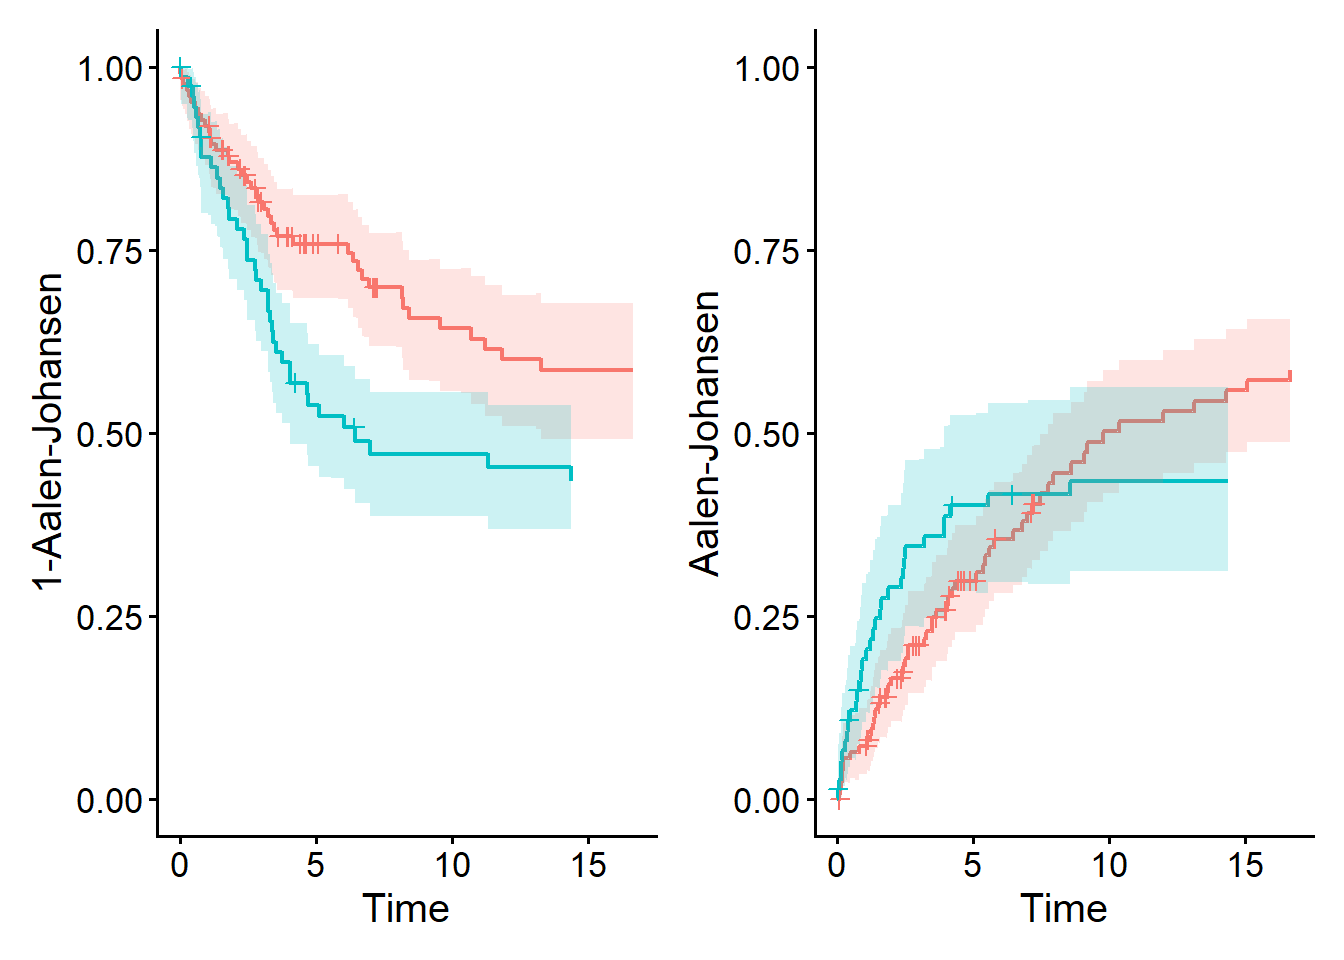
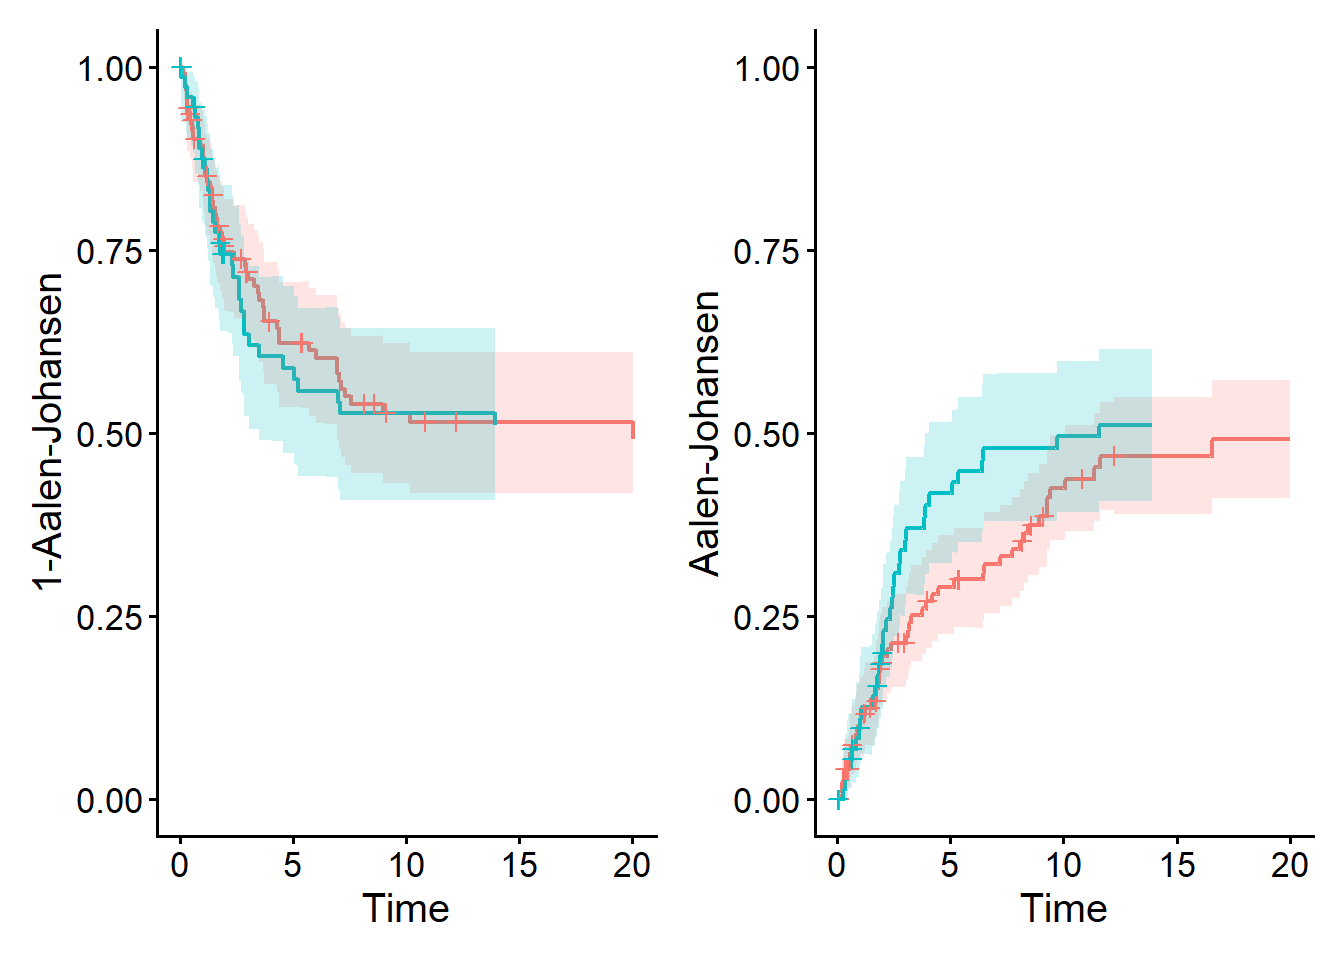
about

diff --git a/docs/jp/frequentist-5.html b/docs/jp/frequentist-5.html
@@ -500,7 +500,7 @@ calculate_coverage()を実行するRコードと結果はこちら
 <span id="cb3-3"><a href="#cb3-3" aria-hidden="true" tabindex="-1"></a>coverage_200 <span class="ot">&lt;-</span> <span class="fu">calculate_coverage</span>(<span class="at">model=</span><span class="st">"coxph"</span>, <span class="at">n=</span><span class="dv">200</span>, <span class="at">hr1=</span><span class="dv">2</span>, <span class="at">hr2=</span><span class="fl">1.5</span>, <span class="at">hr_true=</span><span class="fl">1.5</span>)</span>
 <span id="cb3-4"><a href="#cb3-4" aria-hidden="true" tabindex="-1"></a><span class="fu">print</span>(coverage_200)</span></code><button title="Copy to Clipboard" class="code-copy-button"><i class="bi"></i></button></pre></div>
 <div class="cell-output cell-output-stdout">
-<pre><code>[1] 0.949</code></pre>
+<pre><code>[1] 0.956</code></pre>
 </div>
 </div>
 </div>
@@ -544,19 +544,19 @@ calculate_coverage()を実行するRコードと結果はこちら
 <span id="cb5-3"><a href="#cb5-3" aria-hidden="true" tabindex="-1"></a>coverage_800 <span class="ot">&lt;-</span> <span class="fu">calculate_coverage</span>(<span class="at">model=</span><span class="st">"coxph"</span>, <span class="at">n=</span><span class="dv">800</span>, <span class="at">hr1=</span><span class="dv">2</span>, <span class="at">hr2=</span><span class="fl">1.5</span>, <span class="at">hr_true=</span><span class="fl">1.5</span>)</span>
 <span id="cb5-4"><a href="#cb5-4" aria-hidden="true" tabindex="-1"></a><span class="fu">print</span>(coverage_100)</span></code><button title="Copy to Clipboard" class="code-copy-button"><i class="bi"></i></button></pre></div>
 <div class="cell-output cell-output-stdout">
-<pre><code>[1] 0.953</code></pre>
+<pre><code>[1] 0.943</code></pre>
 </div>
 <div class="sourceCode cell-code" id="cb7"><pre class="sourceCode r code-with-copy"><code class="sourceCode r"><span id="cb7-1"><a href="#cb7-1" aria-hidden="true" tabindex="-1"></a><span class="fu">print</span>(coverage_200)</span></code><button title="Copy to Clipboard" class="code-copy-button"><i class="bi"></i></button></pre></div>
 <div class="cell-output cell-output-stdout">
-<pre><code>[1] 0.949</code></pre>
+<pre><code>[1] 0.956</code></pre>
 </div>
 <div class="sourceCode cell-code" id="cb9"><pre class="sourceCode r code-with-copy"><code class="sourceCode r"><span id="cb9-1"><a href="#cb9-1" aria-hidden="true" tabindex="-1"></a><span class="fu">print</span>(coverage_400)</span></code><button title="Copy to Clipboard" class="code-copy-button"><i class="bi"></i></button></pre></div>
 <div class="cell-output cell-output-stdout">
-<pre><code>[1] 0.946</code></pre>
+<pre><code>[1] 0.953</code></pre>
 </div>
 <div class="sourceCode cell-code" id="cb11"><pre class="sourceCode r code-with-copy"><code class="sourceCode r"><span id="cb11-1"><a href="#cb11-1" aria-hidden="true" tabindex="-1"></a><span class="fu">print</span>(coverage_800)</span></code><button title="Copy to Clipboard" class="code-copy-button"><i class="bi"></i></button></pre></div>
 <div class="cell-output cell-output-stdout">
-<pre><code>[1] 0.945</code></pre>
+<pre><code>[1] 0.949</code></pre>
 </div>
 </div>
 </div>

diff --git a/docs/about/index.html b/docs/about/index.html
@@ -228,9 +228,7 @@ gtag('config', 'G-FCK3LX51C6', { 'anonymize_ip': true});
 <section id="about-gestimationshiro-tanaka" class="level2">
 <h2 class="anchored" data-anchor-id="about-gestimationshiro-tanaka">About gestimation/Shiro Tanaka</h2>
 <p><img src="../image/portrait.jpg" width="130" style="border-radius: 12px; float:right; margin-left:1rem;"></p>
-<p>Shiro Tanaka is a biostatistician and a Professor of Clinical Biostatistics at the Graduate School of Medicine, Kyoto University. This site is his small way of giving back to the community that shaped his training—through books, open-source software, and resources shared generously across borders.</p>
-<p>He has served as a trial statistician in nationwide clinical trial groups in oncology (JCOG), pediatric oncology (JCCG), and osteoporosis (A-TOP). He is an advisory expert for the Pharmaceuticals and Medical Devices Agency (PMDA), serves on the council of the Japanese Society for Pharmacoepidemiology and the Biometric Society of Japan, and is on multiple editorial boards.</p>
-<p>He has been fortunate to work with researchers such as Marc A. Brookhart, Jason P. Fine, and Thomas H. Scheike.</p>
+<p>I’m a Professor of Clinical Biostatistics at Kyoto University Graduate School of Medicine. I have served as a trial statistician in nationwide clinical trial groups (JCOG, JCCG, and A-TOP) and as an advisory expert for the PMDA. I’ve been fortunate to collaborate with researchers such as Marc A. Brookhart, Jason P. Fine, and Thomas H. Scheike. This site is my small way of giving back to the community that shaped my training—through books, open-source software, and freely shared resources.</p>
 </section>
 <section id="why-gestimation" class="level2">
 <h2 class="anchored" data-anchor-id="why-gestimation">Why “gestimation”?</h2>

diff --git a/docs/en/frequentist-2.html b/docs/en/frequentist-2.html
@@ -556,20 +556,20 @@ R code for coxph() and outout
 <pre><code>Call:
 coxph(formula = Surv(time_os, status_os) ~ stoma, data = dat)
 
-  n= 200, number of events= 134 
+  n= 200, number of events= 149 
 
-                  coef exp(coef) se(coef)    z Pr(&gt;|z|)    
-stomaWITH STOMA 0.9311    2.5373   0.1829 5.09 3.58e-07 ***
+                  coef exp(coef) se(coef)     z Pr(&gt;|z|)  
+stomaWITH STOMA 0.3953    1.4848   0.1733 2.281   0.0226 *
 ---
 Signif. codes:  0 '***' 0.001 '**' 0.01 '*' 0.05 '.' 0.1 ' ' 1
 
                 exp(coef) exp(-coef) lower .95 upper .95
-stomaWITH STOMA     2.537     0.3941     1.773     3.631
+stomaWITH STOMA     1.485     0.6735     1.057     2.086
 
-Concordance= 0.6  (se = 0.023 )
-Likelihood ratio test= 25.26  on 1 df,   p=5e-07
-Wald test            = 25.91  on 1 df,   p=4e-07
-Score (logrank) test = 27.66  on 1 df,   p=1e-07</code></pre>
+Concordance= 0.523  (se = 0.023 )
+Likelihood ratio test= 5.15  on 1 df,   p=0.02
+Wald test            = 5.2  on 1 df,   p=0.02
+Score (logrank) test = 5.27  on 1 df,   p=0.02</code></pre>
 </div>
 </div>
 </div>

diff --git a/docs/jp/frequentist-2.html b/docs/jp/frequentist-2.html
@@ -546,20 +546,20 @@ coxph()のコードと結果はこちら
 <pre><code>Call:
 coxph(formula = Surv(time_os, status_os) ~ stoma, data = dat)
 
-  n= 200, number of events= 135 
+  n= 200, number of events= 136 
 
                   coef exp(coef) se(coef)    z Pr(&gt;|z|)  
-stomaWITH STOMA 0.3084    1.3612   0.1752 1.76   0.0784 .
+stomaWITH STOMA 0.2949    1.3429   0.1766 1.67   0.0949 .
 ---
 Signif. codes:  0 '***' 0.001 '**' 0.01 '*' 0.05 '.' 0.1 ' ' 1
 
                 exp(coef) exp(-coef) lower .95 upper .95
-stomaWITH STOMA     1.361     0.7346    0.9656     1.919
+stomaWITH STOMA     1.343     0.7446    0.9501     1.898
 
-Concordance= 0.538  (se = 0.024 )
-Likelihood ratio test= 3.05  on 1 df,   p=0.08
-Wald test            = 3.1  on 1 df,   p=0.08
-Score (logrank) test = 3.12  on 1 df,   p=0.08</code></pre>
+Concordance= 0.543  (se = 0.024 )
+Likelihood ratio test= 2.73  on 1 df,   p=0.1
+Wald test            = 2.79  on 1 df,   p=0.09
+Score (logrank) test = 2.81  on 1 df,   p=0.09</code></pre>
 </div>
 </div>
 </div>

diff --git a/docs/index.html b/docs/index.html
@@ -395,7 +395,7 @@ Ideas — like good coffee — are best enjoyed while they are still warm.</p>
 <p><img src="image/portrait.jpg" width="130" style="border-radius: 12px;
             float: left;
             margin: 1rem 1.5rem 1rem 1rem;"></p>
-<p>Alongside developing methods and tools, he is interested in how statistical ideas are understood, interpreted, and used in practice — especially where methods, assumptions, and human judgment meet. This site collects some of his research, teaching materials, and essays, shared freely for anyone who finds them useful.</p>
+<p>Alongside developing methods and tools, I am interested in how statistical ideas are understood, interpreted, and used in practice — especially where methods, assumptions, and human judgment meet. This site collects some of my research, teaching materials, and essays, shared freely for anyone who finds them useful.</p>
 <p><strong><a href="./about/">More information</a></strong></p>
 </section>
 </section>
